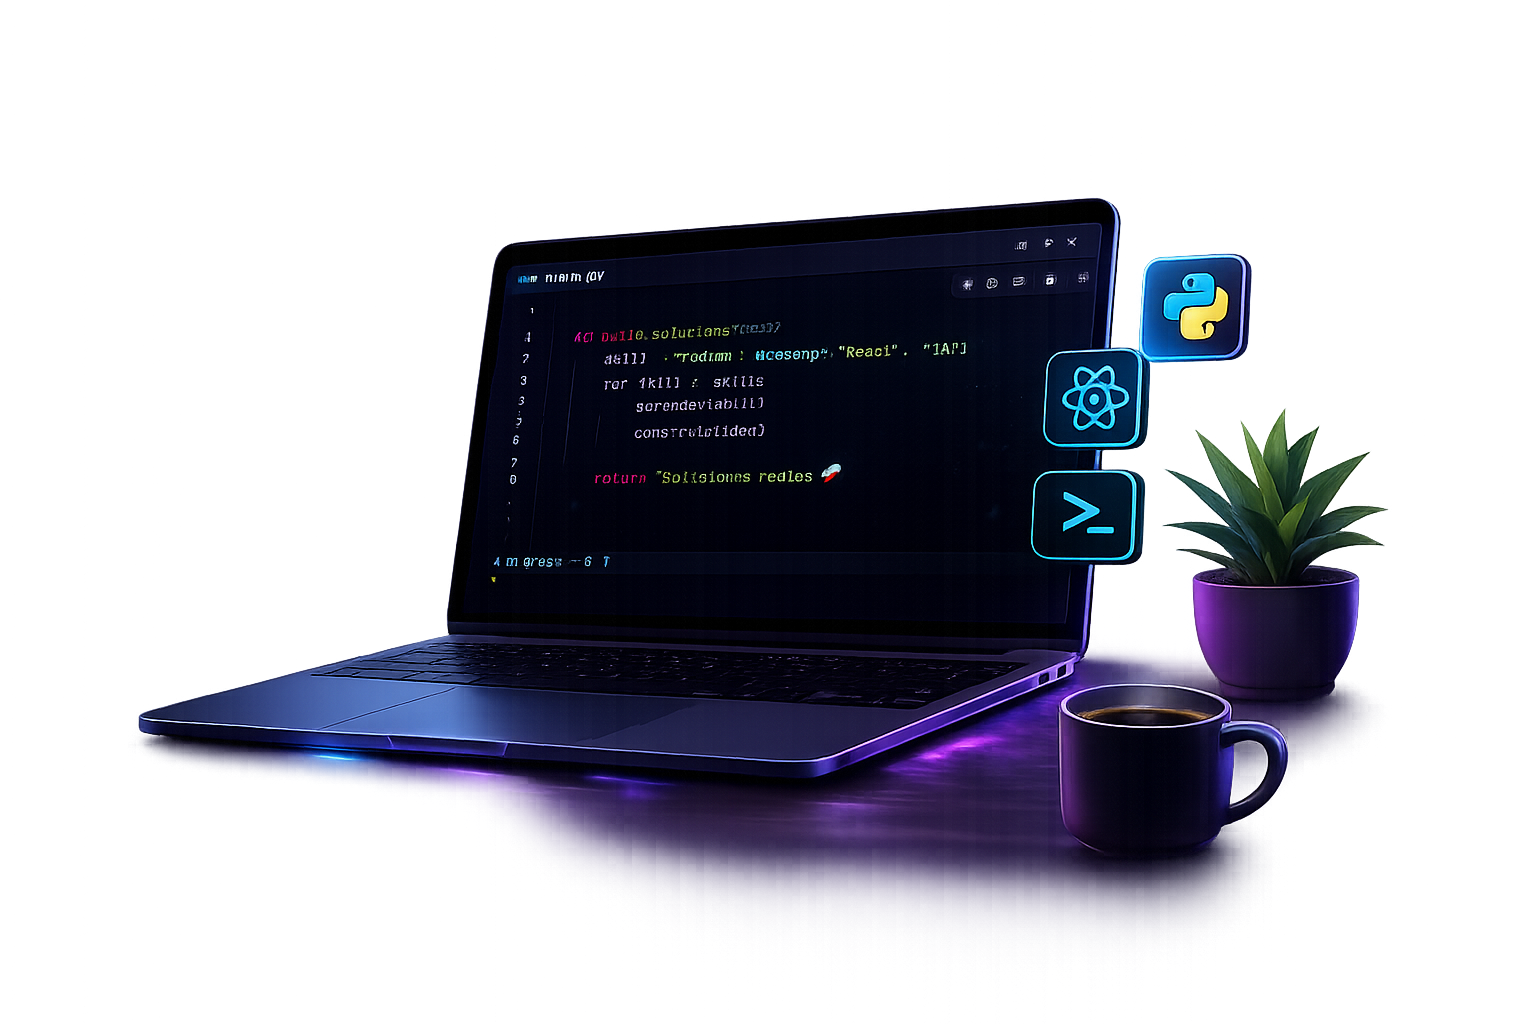
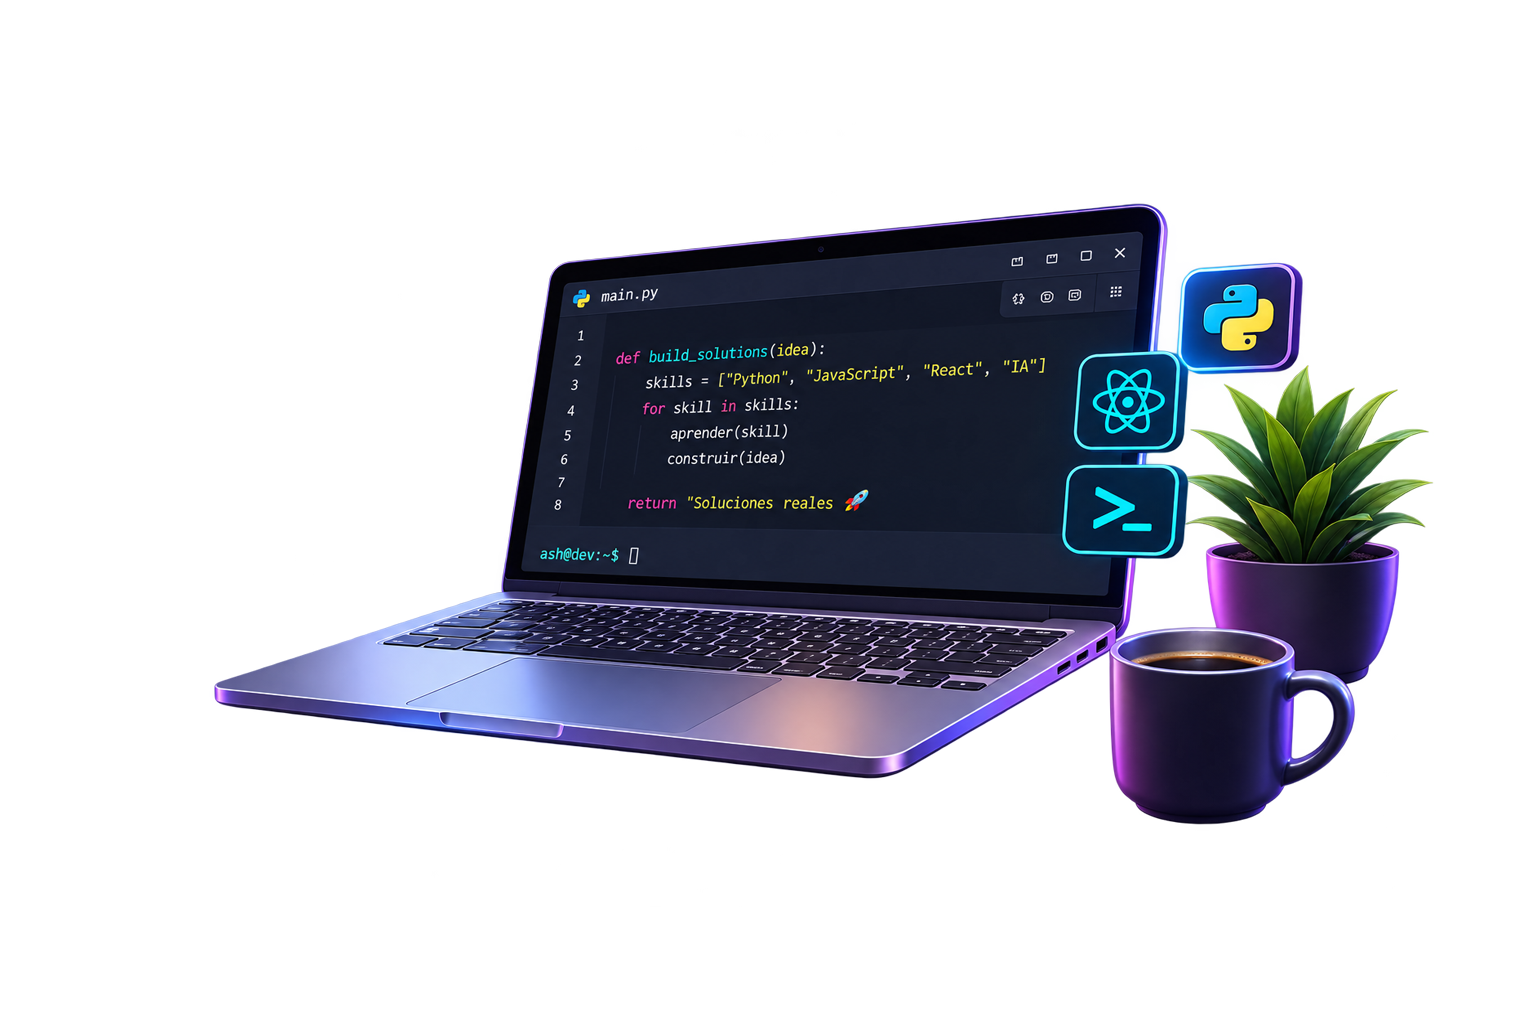
cambios de diseño, anim de transicion

diff --git a/css/style.css b/css/style.css
@@ -180,7 +180,7 @@ nav p { padding-left: 3rem; }
    ============================== */
 .bodyup {
    width: 92vw;
-   height: 52vh;
+   height: 48vh;
    display: grid;
    padding: 0 4vw 0 4vw;
    margin-bottom: 0;
@@ -193,7 +193,7 @@ nav p { padding-left: 3rem; }
    grid-area: leftpanel; 
    max-width: 27vw;
    padding: 10px;
-   max-height: 45vh;
+   max-height: 38vh;
    padding: 0;
 }
 .contenedortech, .presentacion {
@@ -232,7 +232,8 @@ nav p { padding-left: 3rem; }
    grid-template-rows: auto;
    grid-template-areas: 
    "saludo saludo" 
-   "nombre nombre" "nombre nombre"
+   /* Keep the name to one row; duplicate rows add space before the title. */
+   "nombre nombre"
    "titulo titulo" 
    "descripcion descripcion"
    "boton1 boton2"
@@ -253,14 +254,16 @@ nav p { padding-left: 3rem; }
    font-weight: 700;
    align-self: center;
    border: 1px solid gray;
+   margin-bottom: -1vh;
 }
 .nombre {
    grid-area: nombre;
    max-width: 100%;
    height: 100%;
+
    border-right: 3px solid #00d8ff;
-   margin-top: 1vh;
-   transform: scaleY(1.4);
+   margin-bottom: -4vh;
+   transform: scaleY(1.5);
    }
 .nombre h1 {
    margin: 0;
@@ -276,16 +279,26 @@ nav p { padding-left: 3rem; }
    gap: 0;
 }
 .dev {
-   color: #00d8ff;
+   background: linear-gradient(
+    to right,
+    #5b8af0 0%,
+    #63effc 60%,
+    #ff00c3 100%
+);
+   background-clip: text;
+   color: transparent;
    margin-bottom: 0;
 }
 .titulo {
+   margin: 0;
    grid-area: titulo;
+   border-right: 3px solid #00d8ff;
    font-family: "Oxanium", sans-serif;
    font-weight: 500;
    align-self: center;
    font-size: 1.6rem;
-   transform: scaleY(1.4);
+   transform: scaleY(1.1);
+   margin-bottom: -1.5vh;
 }
 .descripcion {
    grid-area: descripcion;
@@ -293,6 +306,7 @@ nav p { padding-left: 3rem; }
    align-self: center;
    font-size: 0.95rem;
    margin-bottom: 1vh;
+   margin-bottom: -0.5vh;
 }
 .boton1,
 .boton2 {
@@ -373,9 +387,10 @@ nav p { padding-left: 3rem; }
    border-right: none;
 }
 .ultechs li a img {
-   height: 3rem;
-   width: auto;
-   object-fit: contain;
+   height: 2rem;
+   width: 2rem;
+   aspect-ratio: 1 / 1;
+   object-fit: cover;
    display: block;
 }
 .ultechs li a h3 {
@@ -385,7 +400,7 @@ nav p { padding-left: 3rem; }
 }
 .secondhalf {
    width: 92vw;
-   height: 40vh;
+   height: 45vh;
    display: grid;
    padding: 0 4vw 0 4vw;
    gap: 1vw;
@@ -429,12 +444,12 @@ nav p { padding-left: 3rem; }
    overflow: hidden;
    max-height: 28vh;
    height: 100%;
-   padding: 0 2rem;
+   padding: 0.1rem 2rem;
    touch-action: pan-y;
 }
 .cards { 
    display: flex;
-   height: 23vh;
+   height: 23.5vh;
    align-items: center;
    transition: transform .4s ease;
    gap: 1.5vw;
@@ -450,7 +465,7 @@ nav p { padding-left: 3rem; }
    text-wrap: wrap;
 }
 .cards h2{
-   font-size: 1.2rem;
+   font-size: 1rem;
    margin-bottom: 0.5rem;
 }
 .cards p{
@@ -496,7 +511,7 @@ nav p { padding-left: 3rem; }
 
 .tarjetaproyecto {
    width: 90%;
-   height: 20vh;
+   height: 23.5vh;
    flex: 0 0 calc((100% - 3.5vw) / 3);
    background-color: #000f2f;
    border: 0.2px solid white;
@@ -511,7 +526,7 @@ nav p { padding-left: 3rem; }
 }
 .tarjetaproyecto img {
    width: 100%;
-   height: 11vh;
+   height: 14vh;
    object-fit: contain;
    border-radius: inherit;
 }
@@ -610,12 +625,12 @@ nav p { padding-left: 3rem; }
 }
 .footerleft { 
    grid-area: footerleft;
-   max-height: 8vh;
+   max-height: 7vh;
    display: flex;
    align-items: center;
  }
 .rocket {
-   height: 10vh;
+   height: 7vh;
    width: auto;
    object-fit: contain;
    margin-right: 1vw;
@@ -638,13 +653,16 @@ nav p { padding-left: 3rem; }
 }
 .footermiddle { 
    grid-area: footermiddle;
+   max-height: 7vh;
    display: flex;
    align-items: center;
+   justify-content: center;
+      
 }
 .contactame {
    width: 100%;
    max-width: 13vw;
-   height: 3.5rem;
+   height: 7vh;
    background-color: #3b82f6;
    color: white;
    border: none;
@@ -659,14 +677,14 @@ nav p { padding-left: 3rem; }
    text-decoration: none;
 }
 .paperplane {
-   height: 1.5rem;
+   height: 3rem;
    width: auto;
    object-fit: contain;
    margin-left: 0.5rem;
 }
 .footerright { 
    grid-area: footerright;
-   max-height: 8vh;
+   max-height: 7vh;
    display: flex;
    align-items: center;
    justify-content: center;
@@ -674,10 +692,11 @@ nav p { padding-left: 3rem; }
    overflow: hidden;
    border-radius: 1rem;
    border: solid 0.01px white;
+   align-self: start;
 }
 .footerrightleft, .footerrightmid, .footerrightright {
    width: 100%;
-   height: 8vh;
+   height: 7vh;
    color: white;
    border-left: solid 0.01px white;
    font-family: "Inter", sans-serif;
@@ -705,3 +724,75 @@ nav p { padding-left: 3rem; }
 }
 
 .blank { grid-area: blank; background-color: transparent; }
+
+body.lightmode {
+   background-image: url("/img/fondolightmode.png");
+   color: black;
+}
+body.lightmode nav{
+background-color: rgba(255, 255, 255, 0.4);
+color: black;
+}
+body.lightmode nav ul.menu li a, body.lightmode nav p{
+   color: black;
+}
+body.lightmode .dev{
+   background: linear-gradient(
+    to right,
+    #5b8af0 0%,
+    #d4c4b4 45%,
+    #e1ad78 100%
+);
+   background-clip: text;
+   color: transparent;
+   margin-bottom: 0;
+}
+
+body.lightmode .proyects, body.lightmode .pathing, body.lightmode .aboutme, 
+body.lightmode .footercontainer, body.lightmode .ultechs, body.lightmode .ulredes,
+ body.lightmode .tarjetaproyecto, body.lightmode .presentacion,
+ body.lightmode .rightpanel, body.lightmode .boton2, 
+ body.lightmode .proyects .banner, body.lightmode .proyects .vertodosbtn,
+ body.lightmode .footerleft, body.lightmode .footermiddle, body.lightmode .footerright{
+   background-color: rgba(255, 255, 255, 0.4);
+   color: black;
+}
+body.lightmode .footercontainer{
+   background: linear-gradient(
+    to right,
+    #fdf8f2,
+    #fdf8f2
+);
+}
+body.lightmode .footerright, body.lightmode .proyects, body.lightmode .pathing, 
+body.lightmode .aboutme, body.lightmode .ultechs, body.lightmode .boton1, body.lightmode .boton2{
+   border: solid 0.01px black;
+}
+body.lightmode .footerright h5, body.lightmode .footerright p,
+body.lightmode .footerleft .carteles .cartel, body.lightmode .footerleft .carteles .sub{
+   color: black;
+}
+body.lightmode, body.lightmode, body.lightmode nav ul.menu li a, body.lightmode nav p,
+body.lightmode .dev, body.lightmode .proyects, body.lightmode .pathing, body.lightmode .aboutme, 
+body.lightmode .footercontainer, body.lightmode .ultechs, body.lightmode .ulredes,
+ body.lightmode .tarjetaproyecto, body.lightmode .presentacion,
+ body.lightmode .rightpanel, body.lightmode .boton2, 
+ body.lightmode .proyects .banner, body.lightmode .proyects .vertodosbtn,
+ body.lightmode .footerleft, body.lightmode .footermiddle, body.lightmode .footerright,
+ body.lightmode .footerright, body.lightmode .proyects, body.lightmode .pathing, 
+body.lightmode .aboutme, body.lightmode .ultechs, body.lightmode .boton1, body.lightmode .boton2,
+body.lightmode .footerright h5, body.lightmode .footerright p,
+body.lightmode .footerleft .carteles .cartel, body.lightmode .footerleft .carteles .sub{
+   transition:
+      background-color 0.5s ease,
+      color 0.5s ease,
+      border-color 0.5s ease,
+      box-shadow 0.5s ease;
+}
+.note-img {
+   opacity: 1;
+   transition: opacity 0.3s ease;
+}
+.note-img.is-changing {
+   opacity: 0;
+}

diff --git a/index.html b/index.html
@@ -53,12 +53,6 @@
                      automatizadas y escalables con Python impulsadas por IA</div>
                  <button class="boton1" type="button">🚀 Ver Proyectos</button>
                  <button class="boton2" type="button">✉ Contactar</button>
-                <div class="redes">
-                    <ul class="ulredes">
-                        <li><a href=""><img src="img/in.png" class="logo" alt="instagram"></a></li>
-                        <li><a href=""><img src="img/wsp.png" class="logo" alt="facebook"></a></li>
-                    </ul>
-                </div>
             </div>
         </div>
         <div class="rightpanel">
@@ -225,6 +219,11 @@ const visibles = 3;
 // deslizamiento horizontal
 const anchoTarjeta = imagenes.length > 0 ? imagenes[0].getBoundingClientRect().width : 0;
 const gap = parseFloat(getComputedStyle(container).gap) || 0;
+const estilosWrapper = getComputedStyle(cardsWrapper);
+const paddingHorizontal = parseFloat(estilosWrapper.paddingLeft) + parseFloat(estilosWrapper.paddingRight);
+const anchoVentana = cardsWrapper.clientWidth - paddingHorizontal;
+// Centers the visible group without changing card dimensions or carousel step size.
+const offsetCentrado = Math.max(0, (anchoVentana - (visibles * anchoTarjeta + (visibles - 1) * gap)) / 2);
 let currentTranslate = 0;
 let previousTranslate = 0;
 let isDragging = false;
@@ -232,7 +231,7 @@ let didDrag = false;
 const minDragDistance = 40;
 
 function getTranslateForIndex(i) {
-    return -(i * (anchoTarjeta + gap));
+    return offsetCentrado - (i * (anchoTarjeta + gap));
 }
 
 function actualizarCarrusel() {
@@ -331,10 +330,28 @@ actualizarCarrusel();
 
 // botón que controla solo la apariencia interna del switch
 const themeToggleButton = document.querySelector('.theme-toggle');
+const bodyelement = document.querySelector('body');
+const notebook = document.querySelector('.note-img');
 if (themeToggleButton) {
     themeToggleButton.addEventListener('click', () => {
         // alterna la clase visual .dark sin cambiar tema global
         themeToggleButton.classList.toggle('dark');
+        bodyelement.classList.toggle('lightmode');
+        if (notebook) {
+            if (notebook.src.includes("notebook-clara.png")) {
+                notebook.classList.add("is-changing");
+                setTimeout(() => {
+                notebook.src = "img/notebook.png";
+                notebook.classList.remove("is-changing");
+}, 120);
+            } else {
+            notebook.classList.add("is-changing");
+            setTimeout(() => {
+            notebook.src = "img/notebook-clara.png";
+            notebook.classList.remove("is-changing");
+}, 120)
+        }
+        }
     });
 }
 
